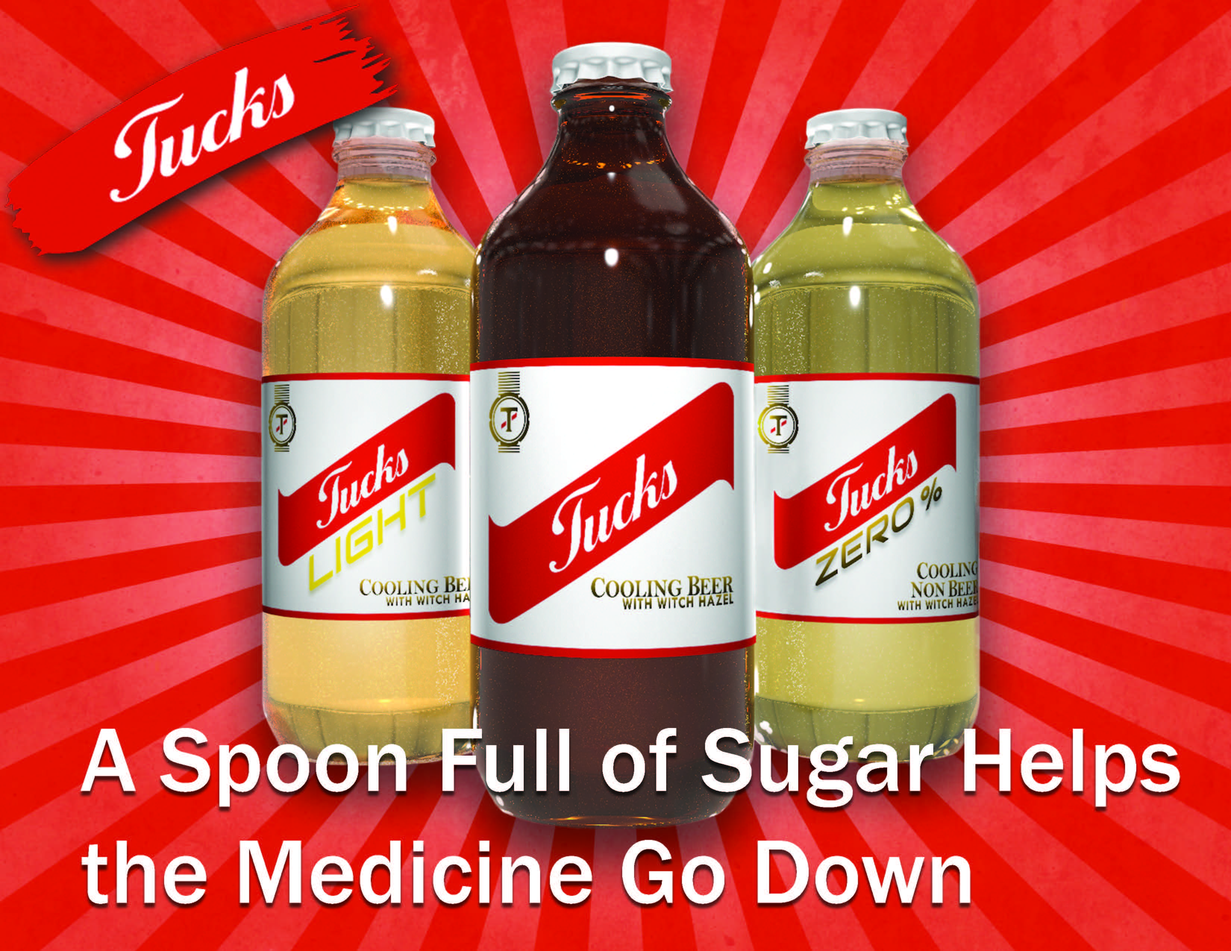
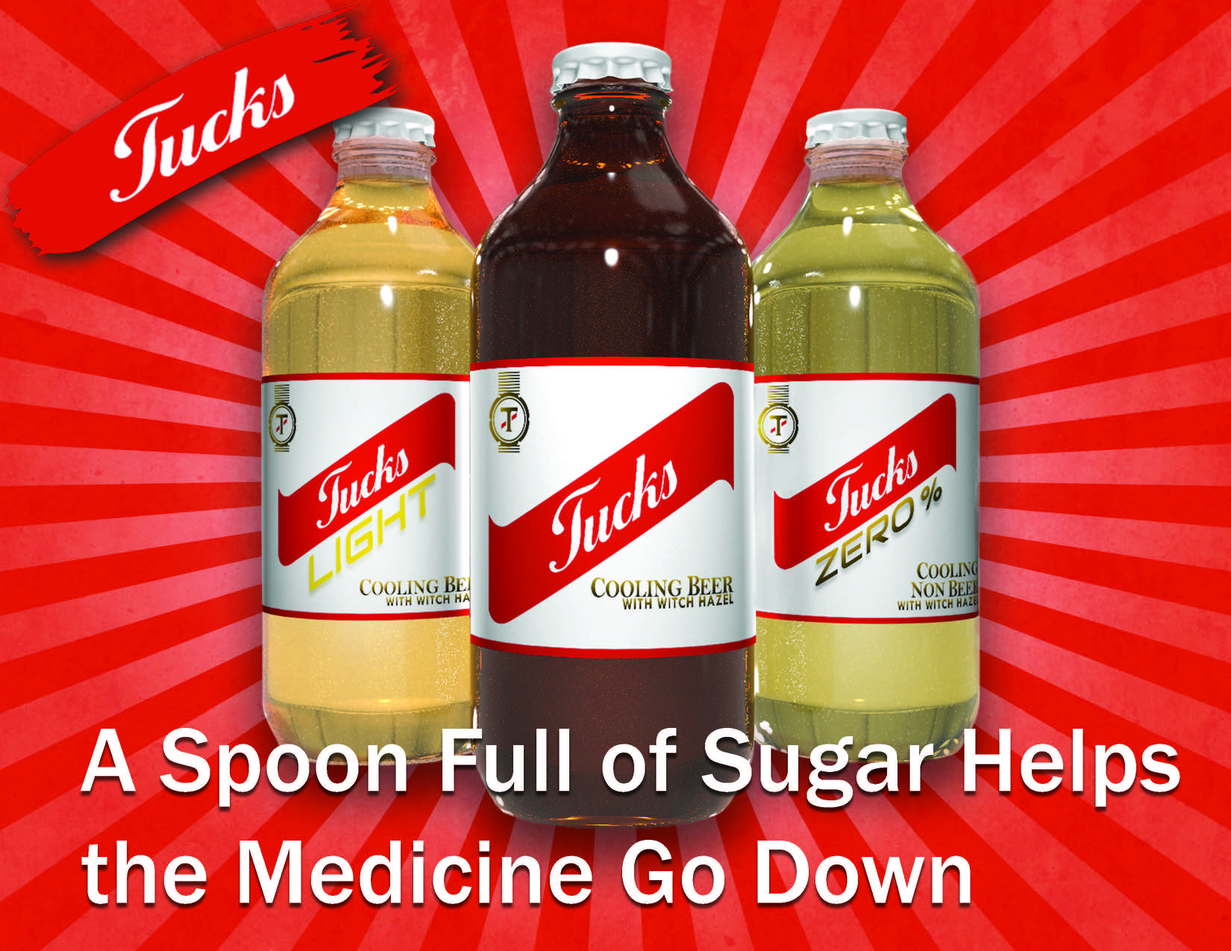
added promo

diff --git a/css/main.css b/css/main.css
@@ -189,7 +189,7 @@ header {
 }
 .promo1 {background: url(../images/Promo01.jpg) center/contain no-repeat;}
 .promo2 {background: url(../images/Promo02.jpg) center/contain no-repeat;}
-.promo3 {background: url(../images/Promo01.jpg) center/contain no-repeat;}
+.promo3 {background: url(../images/Promo03.jpg) center/contain no-repeat;}
 
 .sliderImg img{
   height: 100%;
